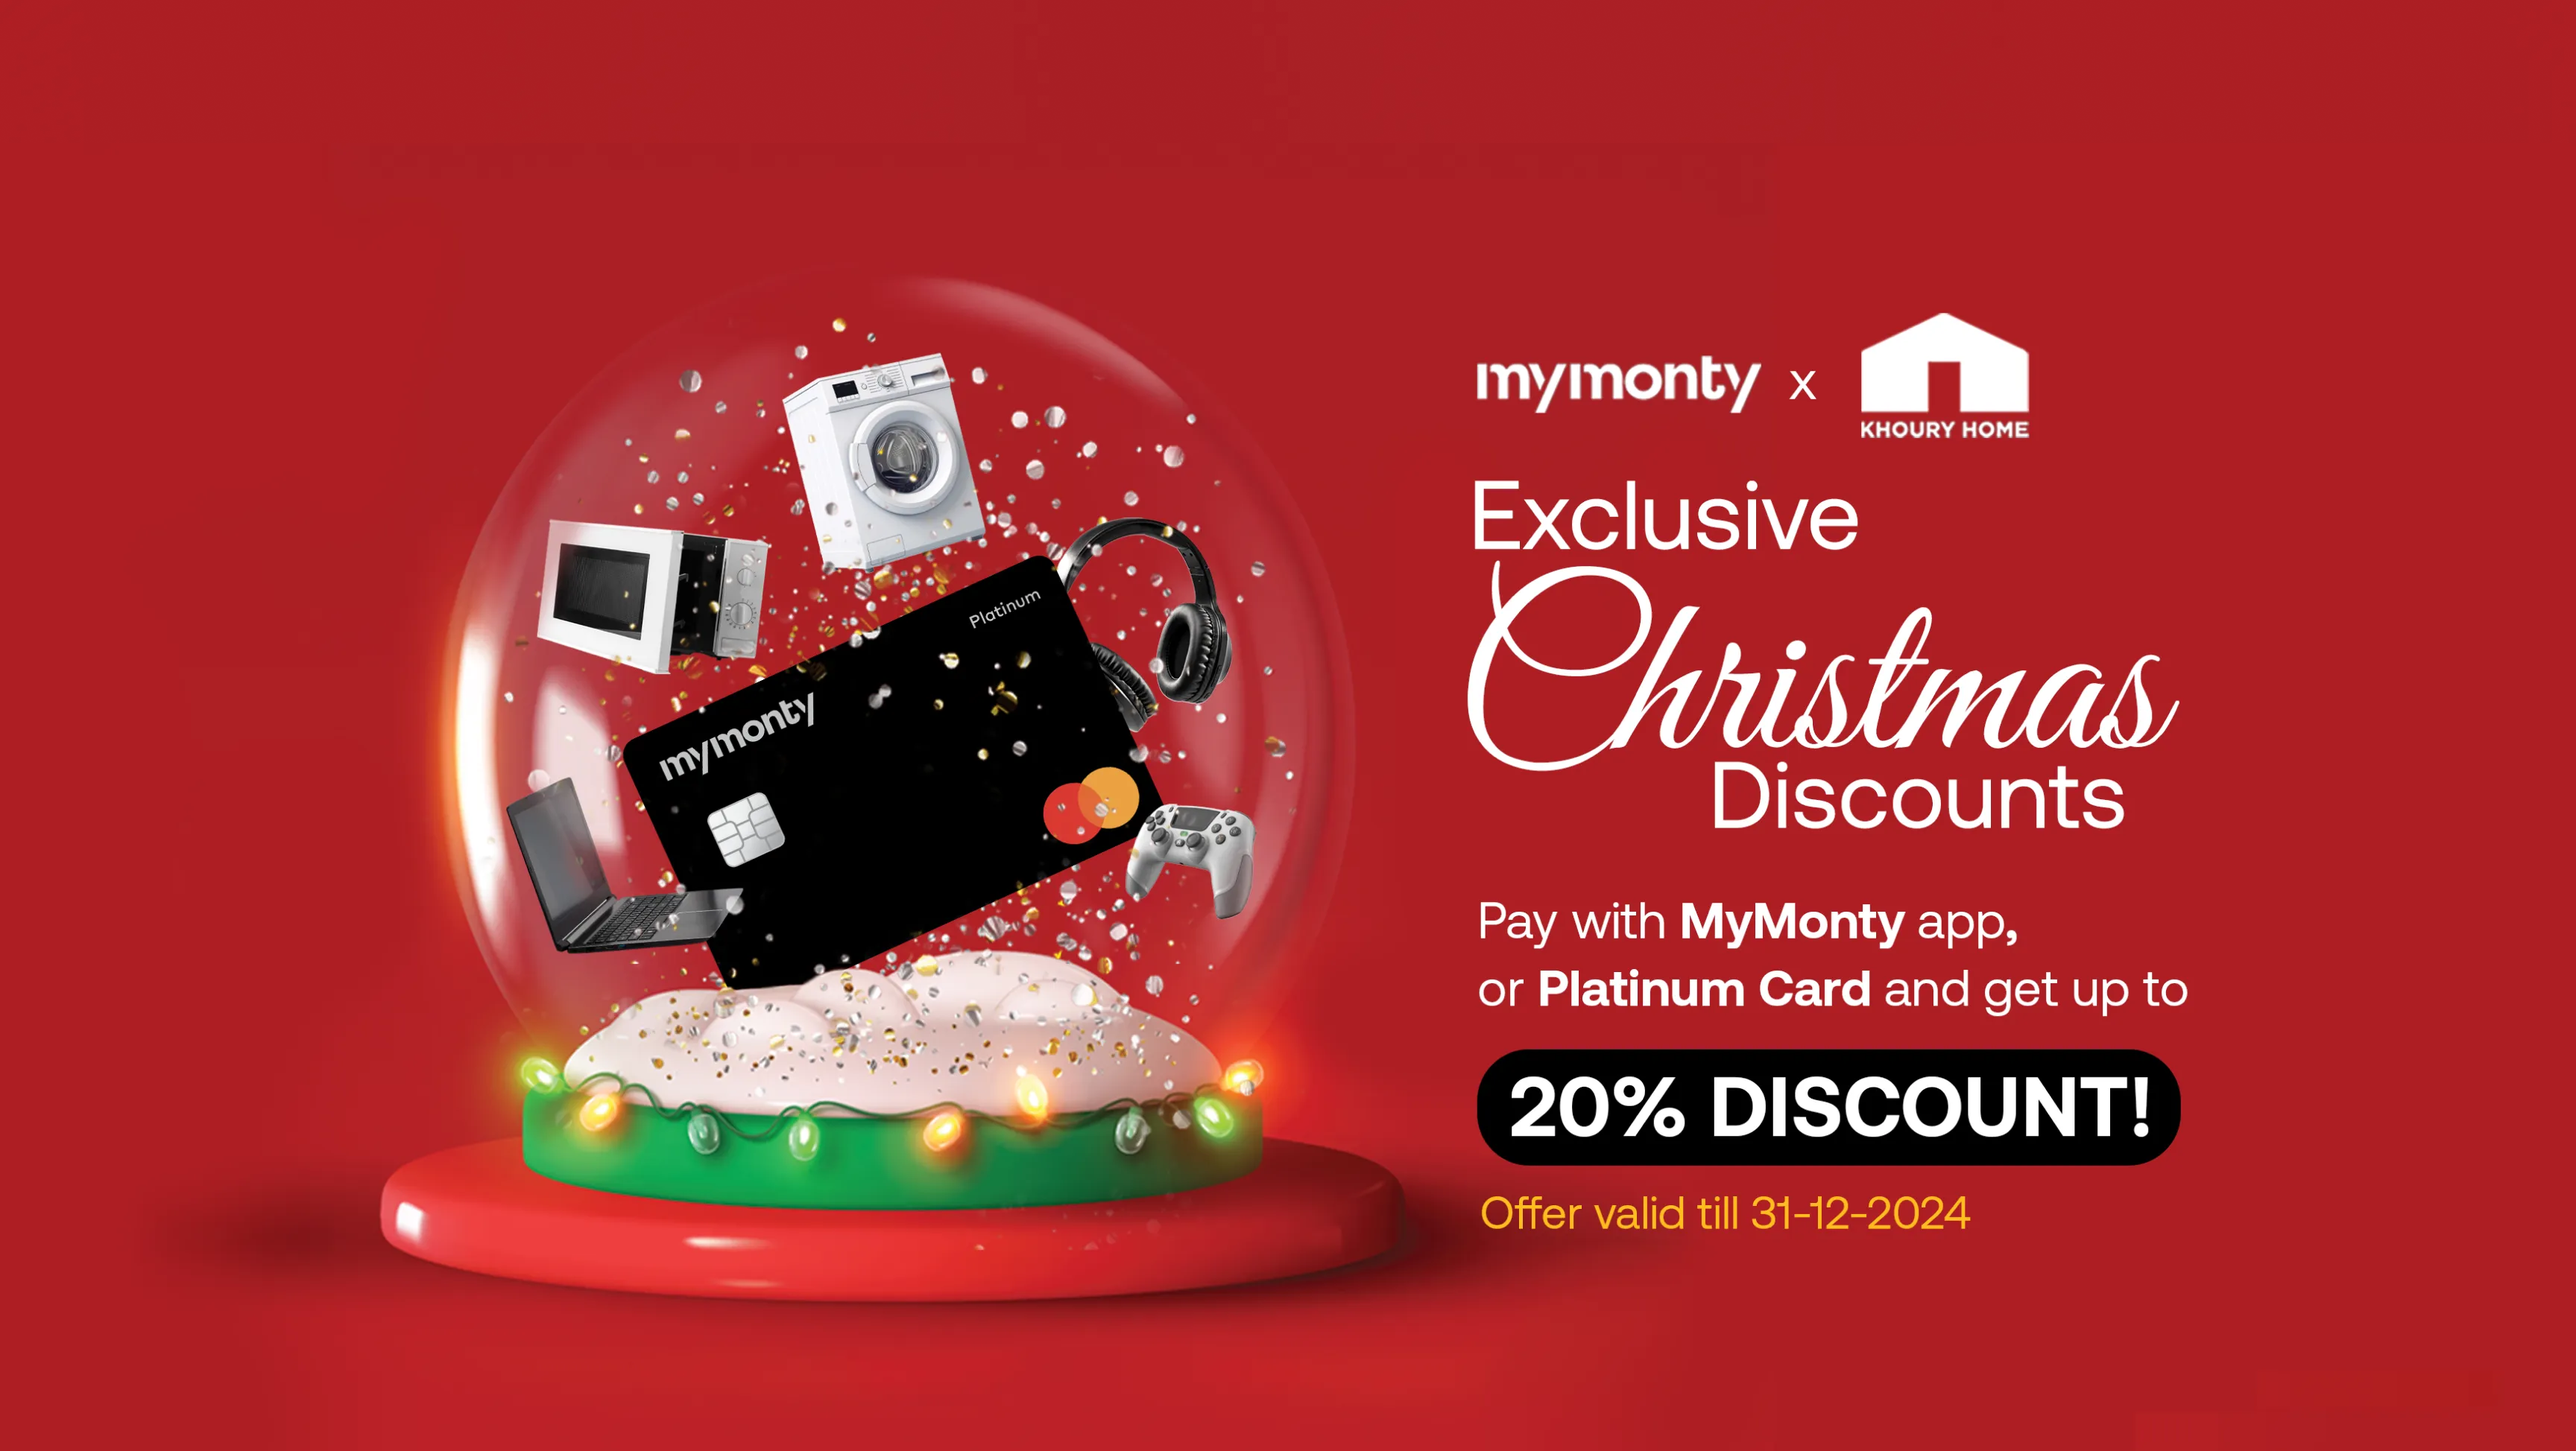
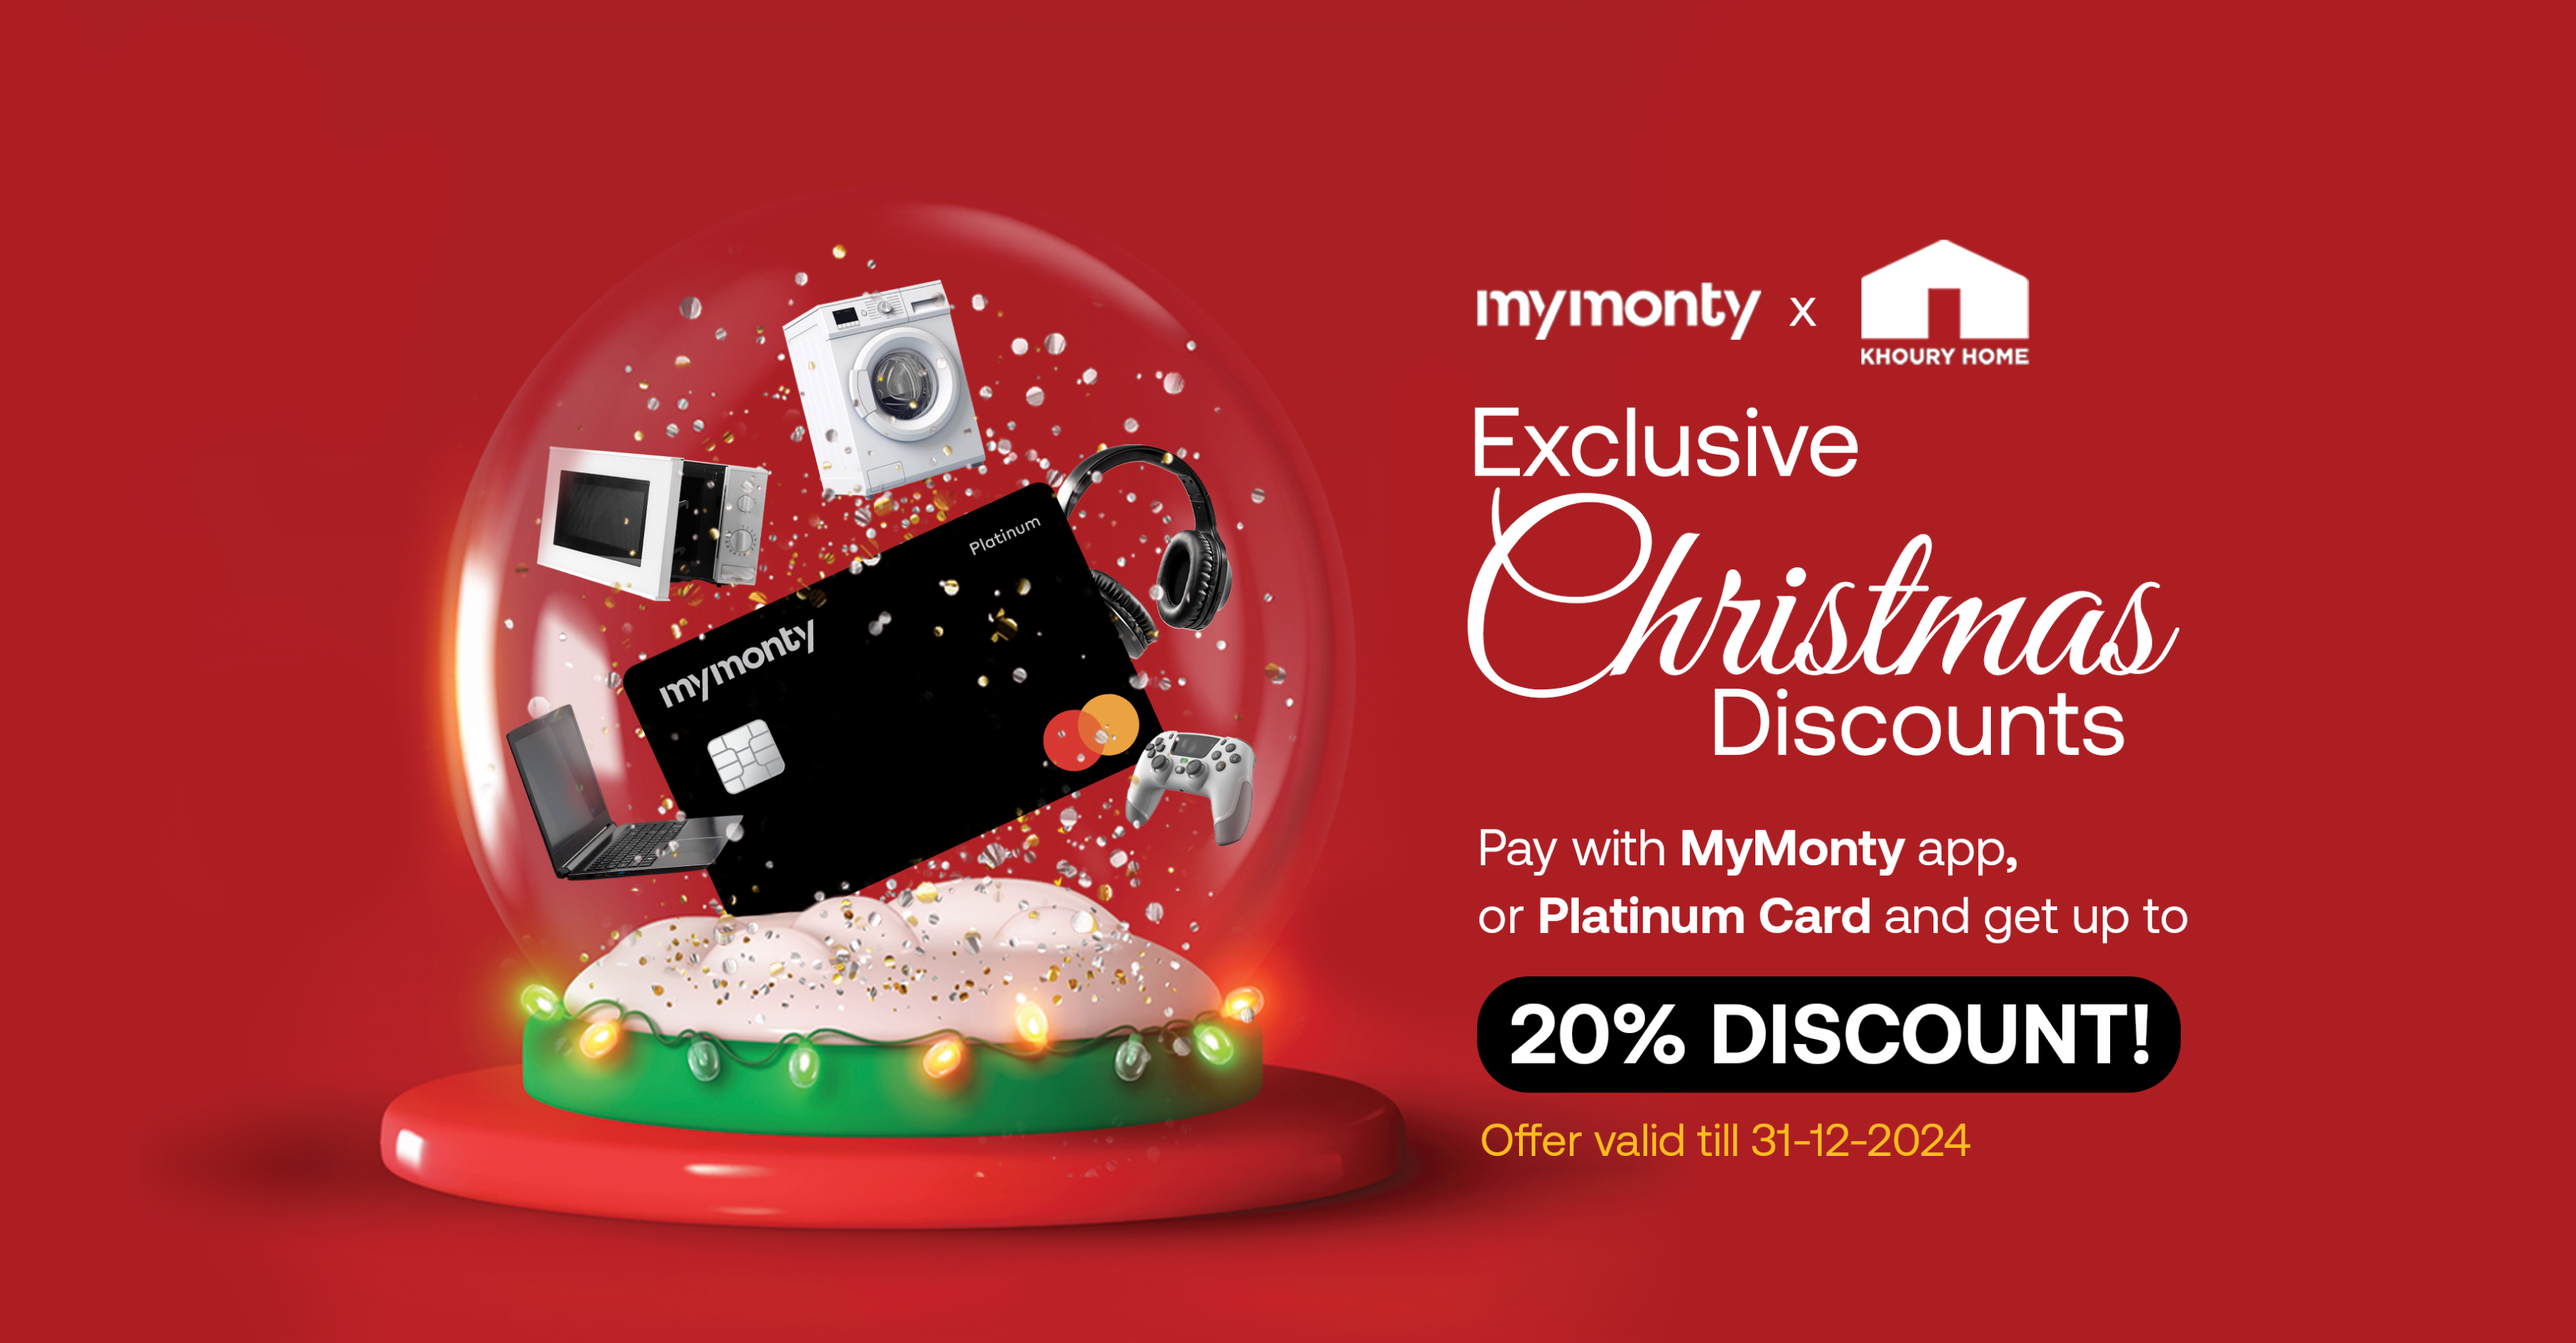
.

Changed region(s): [[0.125, 0.1554, 0.8438, 0.9323], [0.5625, 0.1865, 0.8438, 0.5905], [0.5625, 0.6215, 0.7812, 0.6526]]

diff --git a/app/khoury-home/page.js b/app/khoury-home/page.js
@@ -6,11 +6,12 @@ import bannerMobile from '@/public/khoury-banner-mobile.webp';
 import TextBlock from '../components/TextBlock';
 import santa1 from '@/public/santa-1.webp';
 import santa2 from '@/public/santa-2.webp';
-import whiteCard from '@/public/white-card.webp';
+import physicalCard from '@/public/physical-card.webp';
 import plexiQR from '@/public/plexi-qr.webp';
 import christmasBG from '@/public/christmas-bg.webp';
 import mobile from '@/public/khoury-mobile.webp';
 import santa from '@/public/santa-kids.webp';
+import Link from 'next/link';
 
 export const metadata = {
     title: websiteName + 'Khoury Home',
@@ -27,7 +28,7 @@ const KhouryHome = () => {
                 <Image className="w-full md:hidden" alt="Santa" src={bannerMobile} placeholder='blur' quality={100} />
                 <div className="absolute bottom-6 w-full max-md:px-4 px-12 flex justify-between items-center gap-2 max-md:text-xs text-base">
                     <div>
-                        <p>* <a className="underline underline-offset-4" href="/khoury-home/terms-and-conditions">Terms and conditions</a> apply</p>
+                        <p>* <Link className="underline underline-offset-4" href="/khoury-home/terms-and-conditions">Terms and conditions</Link> apply</p>
                     </div>
                     <div>
                      <p>Monty Finance S.A.L.</p>
@@ -37,7 +38,6 @@ const KhouryHome = () => {
             <section className="max-lg:py-10 py-24">
                 <div className="container text-center">
                     <TextBlock title="The ultimate Christmas offer" description='This holiday season, MyMonty and Khoury Home are here to bring you an unbeatable Christmas shopping experience with up to 20% OFF your favorite products!' center={true}/>
-                    <p className="mt-5">*<a href="/khoury-home/terms-and-conditions" className="underline blue-text">Terms and conditions</a> apply.</p>
                     <div className="mt-8 grid grid-cols-2 max-lg:gap-4 lg:gap-8 max-w-[720px] mx-auto">
                         <Image alt="Santa" src={santa1} placeholder='blur' quality={100} />
                         <Image alt="Santa" src={santa2} placeholder='blur' quality={100} />
@@ -47,13 +47,12 @@ const KhouryHome = () => {
             </section>
             
             <section>
-                <div className="container">
-                    <div className="text-center mb-14">
-                        <TextBlock title="HOW IT WORKS" center={true}/>
-                    </div>
-                </div>
                 <div className="w-full bg-[#E1D0D0]/10 py-20">
                     <div className="container">
+                        <div className="text-center mb-14">
+                            <TextBlock title="HOW IT WORKS" center={true}/>
+                        </div>
+                        
                         <div>
                             <svg width="90" height="90" viewBox="0 0 90 90" fill="none" xmlns="http://www.w3.org/2000/svg">
                                 <path fill-rule="evenodd" clip-rule="evenodd" d="M0 12.32C0 5.51585 5.51585 0 12.32 0H77.68C84.4842 0 90 5.51585 90 12.32V77.68C90 84.4842 84.4841 90 77.68 90H12.32C5.51585 90 0 84.4841 0 77.68V12.32ZM29.0232 27H19V62.2436H29.0232V27ZM48.7965 32.7868C51.4194 27.7391 56.395 27 59.694 27L59.685 27.018C69.3747 27.018 71.9977 34.7518 71.9977 43.4951V62.2616H61.9745V43.6934C61.9745 38.9792 60.5593 35.2836 56.1877 35.2836C51.816 35.2836 50.473 39.1144 50.473 43.7565V62.2526H40.5219V43.6844C40.5219 38.9702 39.1788 35.2746 34.7351 35.2746C33.6715 35.2746 32.8783 35.5089 32.3555 35.7613V28.9019C34.041 27.7211 35.8798 27 38.2324 27C43.4784 27 47.0478 29.2895 48.7965 32.7868Z" fill="black"/>
@@ -65,7 +64,7 @@ const KhouryHome = () => {
                                 <TextBlock title="IF you’re a mymonty user" description="Pay using MyMonty card or the QR code and get 10% discount on Khoury Home products and 20% discount on La Maison products." />
                             </div>
                             <div className="bg-[#E8A600] bg-opacity-[8%] rounded-[30px] max-md:px-8 px-14 py-16">
-                                <Image className="mx-auto" alt="Virtual Card" src={whiteCard} placeholder='blur' quality={100} />
+                                <Image className="mx-auto" alt="Physical Card" src={physicalCard} placeholder='blur' quality={100} />
                                 <h4 className="uppercase font-[900] text-center text-[20px] mt-6">Pay using mymonty card</h4>
                             </div>
                             <div className="bg-[#F37E69] bg-opacity-[8%] rounded-[30px] max-md:px-12 px-28 py-16">
@@ -100,7 +99,7 @@ const KhouryHome = () => {
                 <div className="container">
                     <div className="grid lg:grid-cols-2 items-center gap-10">
                         <div>
-                            <TextBlock title="Don’t miss out!" description="Get up to 20% OFF with MyMonty and make this holiday season unforgettable for you and your loved ones!" buttonColor="dark" button={true}/>
+                            <TextBlock title="Don’t miss out!" description="Get up to <span className='text-[#BF0022] text-3xl'>20% OFF</span> with MyMonty and make this holiday season unforgettable for you and your loved ones!" buttonColor="dark" button={true}/>
                             <p className="mt-10 max-lg:mb-10">*<a href="/khoury-home/terms-and-conditions" className="underline blue-text">Terms and conditions</a> apply.</p>
                         </div>
                         <div>

diff --git a/app/khoury-home/terms-and-conditions/page.js b/app/khoury-home/terms-and-conditions/page.js
@@ -13,21 +13,24 @@ const khterms = () => {
             <FooterBanner subtitle="Terms and Conditions" title="MYMONTY x KHOURY HOME DISCOUNTS PROMOTION" />
             <div className='container py-10 lg:py-20 relative'>
                 <div className='text-base html-content'>
-                <h2>What is this promotion about?</h2>
-                <p>Monty Finance S.A.L. is offering its personal customers who have successfully onboarded to MyMonty application (the “<strong>MyMonty Customers</strong>”) the opportunity to benefit from the MyMonty x Khoury Home Discounts Promotion (the “<strong>Promotion”</strong>). <br />
-                The Promotion runs from 10 AM on December 7, 2024 to 7 PM on December 31, 2024 (the “<strong>Promotion Period</strong>”). <br />
-                The Promotion allows exclusive discounts (the “<strong>Discounts”</strong>) for all MyMonty Customers on products purchased at Khoury Home and La Maison Khoury Home points of sale (“<strong>KH POS</strong>”) in all the Lebanese territory. The Promotion applies for purchases made in LBP and USD. <br /> 
-                These Promotion terms and conditions (the “<strong>Promotion Terms</strong>”) outline the rules that govern this Promotion. By taking part in this Promotion, you agree to comply with both these Promotion Terms and the terms and conditions of your MyMonty Customer Agreement.</p>
+                    <h2>What is this promotion about?</h2>
+
+                    <p>Monty Finance S.A.L. is offering its personal customers who have successfully onboarded to MyMonty application (the “<strong>MyMonty Customers</strong>”) the opportunity to benefit from the MyMonty x Khoury Home Discounts Promotion (the “<strong>Promotion”</strong>). <br />
+                    The Promotion runs from 10 AM on December 7, 2024 to 7 PM on December 31, 2024 (the “<strong>Promotion Period</strong>”). <br />
+                    The Promotion allows exclusive discounts (the “<strong>Discounts”</strong>) for all MyMonty Customers on products purchased at Khoury Home and La Maison Khoury Home points of sale (“<strong>KH POS</strong>”) in all the Lebanese territory. The Promotion applies for purchases made in LBP and USD. <br /> 
+                    These Promotion terms and conditions (the “<strong>Promotion Terms</strong>”) outline the rules that govern this Promotion. By taking part in this Promotion, you agree to comply with both these Promotion Terms and the terms and conditions of your MyMonty Customer Agreement.</p>
 
 
-                <h2 className="mt-10">Who is eligible for the promotion?</h2>
-                <p>To be eligible for this Promotion, you must have an active MyMonty personal eWallet account (not suspended, closed or restricted).</p>
+                    <h2 className="mt-10">Who is eligible for the promotion?</h2>
+                    <p>To be eligible for this Promotion, you must have an active MyMonty personal eWallet account (not suspended, closed or restricted).</p>
 
 
-                <h2 className="mt-10">How do I benefit from discounts?</h2>
-                <p>
-                    <strong>MyMonty Customers discounts</strong><br />
-                    If you are a MyMonty Customer, you will receive the following discounts on purchases you make with your physical MyMonty prepaid card or MyMonty eWallet (via QR) at KH POS during the Promotion Period:</p>
+                    <h2 className="mt-10">How do I benefit from discounts?</h2>
+                    <p>
+                        <strong>MyMonty Customers discounts</strong><br />
+                        If you are a MyMonty Customer, you will receive the following discounts on purchases you make with your physical MyMonty prepaid card or MyMonty eWallet (via QR) at KH POS during the Promotion Period:
+                    </p>
+                    
                     <ul>
                         <li>10% of Khoury Home products (excluding mobile phones and products on sale); and</li>
                         <li>20% of La Maison Khoury Home products (excluding products on sale).</li>
@@ -35,7 +38,7 @@ const khterms = () => {
                 
 
 
-                <h2 className="mt-10">What other legal information should I know?</h2>
+                    <h2 className="mt-10">What other legal information should I know?</h2>
                     <ol>
                         <li>This Promotion is offered by Monty Finance S.A.L. in collaboration with Khoury Home Appliances S.A.L.</li>
                         <li>We may suspend or end the Promotion at any time before the end of the Promotion Period, if, in our reasonable opinion, the Promotion is being abused or may negatively affect our goodwill, reputation or commercial interests.</li>

diff --git a/app/components/FooterBanner.js b/app/components/FooterBanner.js
@@ -1,6 +1,12 @@
+'use client'
+
 import React from 'react';
+import Link from 'next/link';
+import { usePathname, useSearchParams } from 'next/navigation';
 
 function FooterBanner({ subtitle, title, downloadURL }) {
+    const pathname = usePathname()
+    console.log(pathname)
     return (
         <section className='py-32 flex flex-col justify-center w-full relative bg-gray-100'>
             <div className='container'>
@@ -8,7 +14,16 @@ function FooterBanner({ subtitle, title, downloadURL }) {
                     <div class="flex flex-col w-full md:w-2/3 justify-center md:mt-0 ">
                         <div>
                             {subtitle && (
-                                <h2 className="font-bold opacity-60">{subtitle}</h2>
+                                <div className="flex items-center gap-4">
+                                    { pathname == '/khoury-home/terms-and-conditions' && (
+                                        <Link href="/khoury-home">
+                                            <svg className="opacity-60" width="16" height="16" viewBox="0 0 16 16" fill="none" xmlns="http://www.w3.org/2000/svg">
+                                                <path d="M15 8H1M1 8L8 15M1 8L8 1" stroke="black" stroke-width="2" stroke-linecap="round" stroke-linejoin="round"/>
+                                            </svg>
+                                        </Link>
+                                    )}
+                                    <h2 className="font-bold opacity-60">{subtitle}</h2>
+                                </div>
                             )}
                             <h1 class="font-black text-4xl sm:text-5xl md:text-6xl fhd:text-[5.4rem] leading-none uppercase mt-6">
                                 {title}
